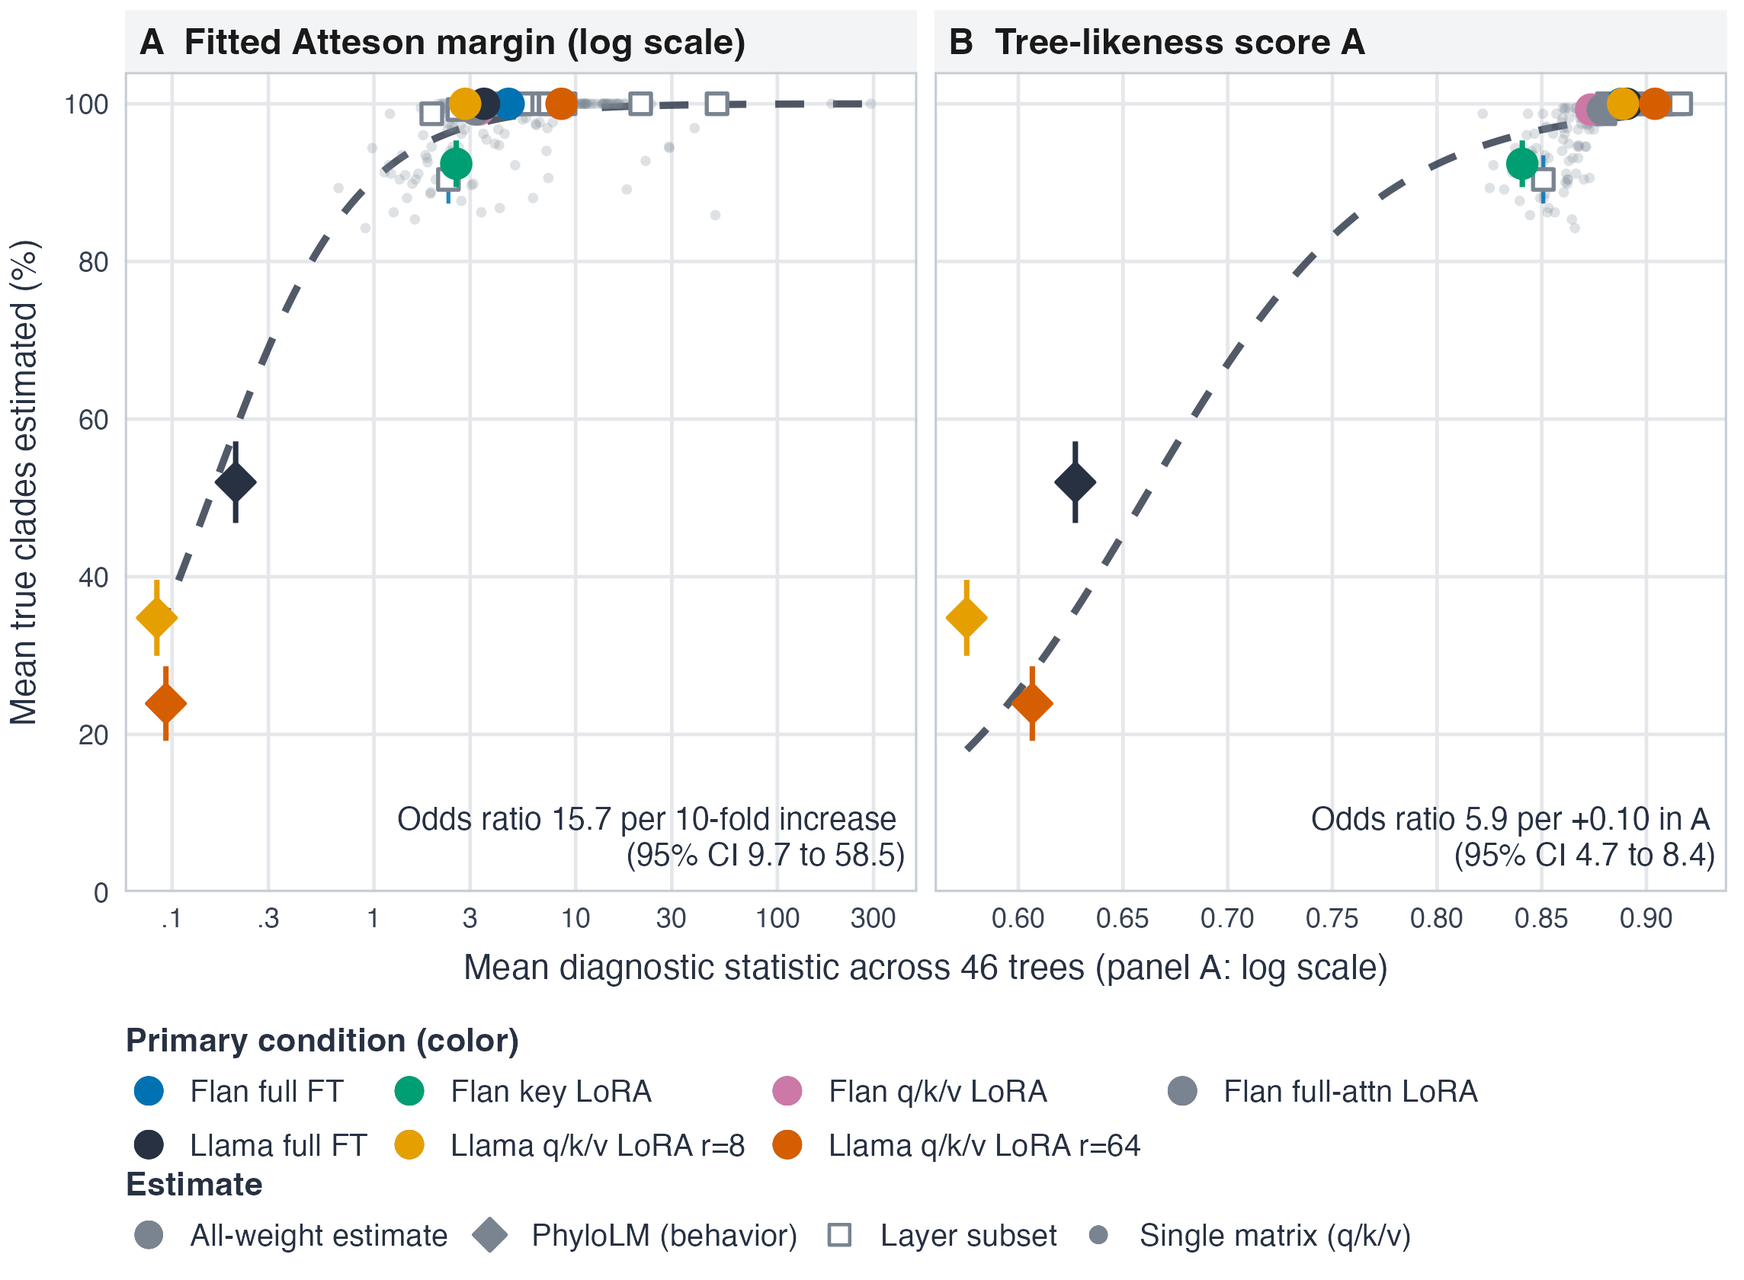
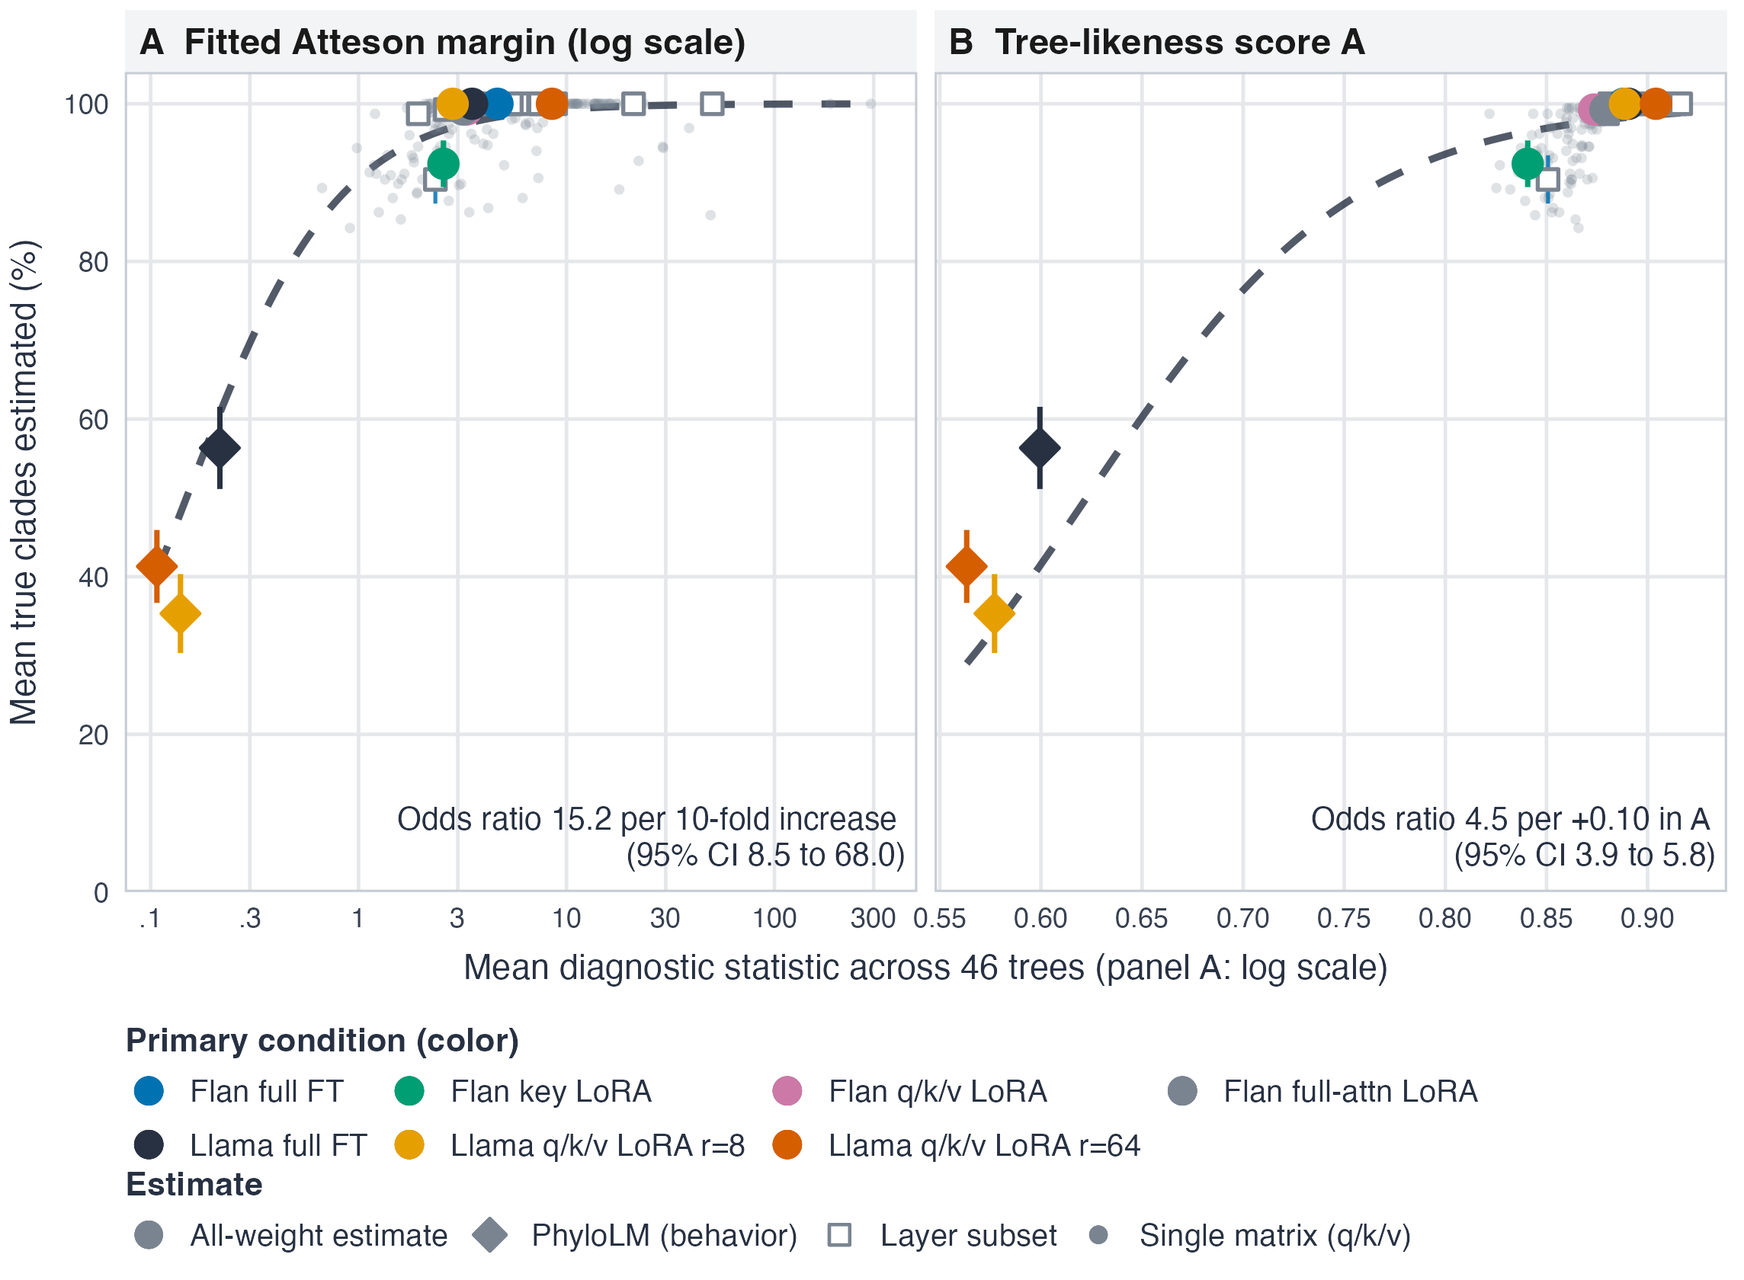
Update PhyloLM numbers to the fixed-2,000-step checkpoints
The controlled PhyloLM comparison had run on an earlier (July) training of
the Llama trees. It was rerun on 2026-09-24 on the same fixed-2,000-step
checkpoints as the weight rows (same PhyloLM code, configuration, and seeds;
Wright jobs 205941-206020). Numbers only; no wording changes.

- PhyloLM clade estimation: r8 35% (5), r64 41% (5), full FT 56% (5)
  (was 35 / 24 / 52); range 35--56% in the abstract, S2, Results, and the
  weight-vs-behavior paragraph.
- RF table PhyloLM columns: RF 5.52 / 5.09 / 4.26, FN 1.74 / 1.52 / 1.11.
- PhyloLM A = 0.56--0.60 (was 0.58--0.63); m~ < 0.25 unchanged.
- Figure 2 rebuilt; odds ratio per +0.10 in A 4.5 (95% CI 3.9--5.8), was
  5.9 (4.7--8.4); per tenfold m~ 15.2 (8.5--68.0), was 15.7 (9.7--58.5).
  The weights-only tree-level check (5.7, 4.0--9.3) is unchanged.

diff --git a/iclr_draft_v6.tex b/iclr_draft_v6.tex
@@ -78,7 +78,7 @@
 
 % -----------------------------------------------------------------------
 \begin{abstract}
-Over a million deep learning models are hosted online, and most are fine-tuned descendants of a few ancestors. Their lineage is rarely fully documented, even though provenance, auditing, and safe deployment depend on it. We hypothesize that fine-tuning acts as an evolutionary process, so that weights have traits inherited from their ancestors. We show that a model \textit{phylogeny} (evolutionary tree) can be estimated from the weights of the observed leaf models alone, with all ancestors latent. On controlled LLM fine-tuning trees whose true structure is known, our estimates contain every true clade (a group of models descended from one ancestor) in 85--100\% of trees, compared with 3\% for a random tree. Treating each weight layer as a gene-like estimator of lineage, we find that a single weight matrix, such as one attention key matrix (0.1--0.2\% of the weights), estimates the phylogeny as well as all the weights combined. Moreover, estimation accuracy is positively associated with two measures from phylogenetics, the Atteson margin and a tree-likeness score based on four-point additivity. The latter needs no true tree. We also report two secondary findings. Models closer in weight space often behave more similarly on held-out tasks, and weight-based estimation matches behavior-based estimation (PhyloLM) on two documented real families while outperforming it on the controlled Llama trees (100\% of clades versus 24--52\%).
+Over a million deep learning models are hosted online, and most are fine-tuned descendants of a few ancestors. Their lineage is rarely fully documented, even though provenance, auditing, and safe deployment depend on it. We hypothesize that fine-tuning acts as an evolutionary process, so that weights have traits inherited from their ancestors. We show that a model \textit{phylogeny} (evolutionary tree) can be estimated from the weights of the observed leaf models alone, with all ancestors latent. On controlled LLM fine-tuning trees whose true structure is known, our estimates contain every true clade (a group of models descended from one ancestor) in 85--100\% of trees, compared with 3\% for a random tree. Treating each weight layer as a gene-like estimator of lineage, we find that a single weight matrix, such as one attention key matrix (0.1--0.2\% of the weights), estimates the phylogeny as well as all the weights combined. Moreover, estimation accuracy is positively associated with two measures from phylogenetics, the Atteson margin and a tree-likeness score based on four-point additivity. The latter needs no true tree. We also report two secondary findings. Models closer in weight space often behave more similarly on held-out tasks, and weight-based estimation matches behavior-based estimation (PhyloLM) on two documented real families while outperforming it on the controlled Llama trees (100\% of clades versus 35--56\%).
 
 \end{abstract}
 
@@ -120,7 +120,7 @@ Our central finding is that weights have traits. In particular, fine-tuned model
 \begin{itemize}[leftmargin=1.3em,itemsep=1pt,topsep=2pt,parsep=0pt]
   \item \textbf{P1 (primary). Phylogeny estimation from leaf-model weights with latent ancestors.} We estimate a model phylogeny from the weights of the observed leaf models alone and treat every ancestor as latent. Each weight layer acts as a gene-like estimator that yields its own tree, and an average of these trees gives the combined estimate. To evaluate the method, we introduce controlled LLM fine-tuning trees with known true trees for Flan-T5-base and Llama-3.2-1B under full fine-tuning and LoRA. Weights correctly estimate every true clade in 85--100\% of trees and 92--100\% of clades overall, compared with 3\% and 9\% for a random tree. Moreover, a single weight matrix, such as one attention key matrix (0.1--0.2\% of the weights), estimates phylogenies just as well as all the weights combined. We also use two classical phylogenetic diagnostics, a tree-likeness score based on four-point additivity and a fitted Atteson margin. The former needs no true tree, and in our experiments higher scores were associated with more accurate estimates. On two documented Hugging Face LLM families, our weight-based method correctly estimates every documented clade.
   \item \textbf{S1 (secondary). Similar weights signal similar behavior.} Models that are closer in weight space produce more similar outputs on \textit{held-out} tasks involving truthfulness, reasoning, knowledge, and common sense. Unlike tree estimation, this analysis uses every trained model, including internal checkpoints, and pools within-tree correlations across trees with a random-effects meta-analysis. For Llama, the pooled correlation is significant and negative on every held-out task ($|r_{\mathrm{DL}}|=0.17$--$0.23$), whereas Flan's results are negative and significant in four of six tasks.
-  \item \textbf{S2 (secondary). Weight-based estimation can outperform behavior-based estimation.} On the controlled Llama trees, weights correctly estimate 100\% of clades, versus 24--52\% for the behavior-only PhyloLM~\citep{yax2025phylolm}. The tree-likeness score from P1 signals this gap. We show that PhyloLM's behavioral distances are much less tree-like, and across our estimators the odds of correctly estimating a clade grow 5.9-fold per 0.10 increase in the score. On the same two documented families, the behavior-based method estimates all true clades, indicating that behavior-only estimation can perform just as well as weight-based estimation in some scenarios.
+  \item \textbf{S2 (secondary). Weight-based estimation can outperform behavior-based estimation.} On the controlled Llama trees, weights correctly estimate 100\% of clades, versus 35--56\% for the behavior-only PhyloLM~\citep{yax2025phylolm}. The tree-likeness score from P1 signals this gap. We show that PhyloLM's behavioral distances are much less tree-like, and across our estimators the odds of correctly estimating a clade grow 4.5-fold per 0.10 increase in the score. On the same two documented families, the behavior-based method estimates all true clades, indicating that behavior-only estimation can perform just as well as weight-based estimation in some scenarios.
 \end{itemize}
 % Submission TODO: add the anonymous code-and-artifact URL here once the blind snapshot exists.
 
@@ -315,8 +315,8 @@ Variant & \shortstack{Rank-bis.\\(SE)} & \shortstack{$r_{\mathrm{branch}}$\\(SE)
 \midrule
 \multicolumn{7}{l}{\textbf{Decoder-only: Llama-3.2-1B} ($d=2048$)} \\
 \quad LoRA: q/k/v ($r{=}8$)              & 0.63 (0.08) & $-0.64$ (0.07) & \textbf{100\%}$^\star$ & 35\% (5\%) & \textbf{100\%}$^\star$ & 0.00 (0.00) \\
-\quad LoRA: q/k/v ($r{=}64$)             & 0.65 (0.08) & $-0.67$ (0.07) & \textbf{100\%}$^\star$ & 24\% (5\%) & \textbf{100\%}$^\star$ & 0.00 (0.00) \\
-\quad Full fine-tuning                   & 0.64 (0.08) & $-0.66$ (0.07) & \textbf{100\%}$^\star$ & 52\% (5\%) & \textbf{100\%}$^\star$ & 0.00 (0.00) \\
+\quad LoRA: q/k/v ($r{=}64$)             & 0.65 (0.08) & $-0.67$ (0.07) & \textbf{100\%}$^\star$ & 41\% (5\%) & \textbf{100\%}$^\star$ & 0.00 (0.00) \\
+\quad Full fine-tuning                   & 0.64 (0.08) & $-0.66$ (0.07) & \textbf{100\%}$^\star$ & 56\% (5\%) & \textbf{100\%}$^\star$ & 0.00 (0.00) \\
 \bottomrule
 \end{tabular}
 }
@@ -327,11 +327,11 @@ Variant & \shortstack{Rank-bis.\\(SE)} & \shortstack{$r_{\mathrm{branch}}$\\(SE)
 
 \paragraph{Phylogeny estimation.}
 \label{sec:results:weighttree}
-Beyond shared lineage, the BHV Fr\'echet means estimate the full phylogeny (Table~\ref{tab:variants}). In the controlled experiments, clade estimation for our method ranges from 92--100\% and full estimation from 85--100\%. The LoRA variants correctly estimate 92--99\% of clades for Flan and 100\% for Llama. Full fine-tuning estimates 100\% of clades for both. On the same 46 trees, weights correctly estimate 100\% of clades versus PhyloLM's 35\% under rank-8 LoRA, 100\% versus 24\% at rank 64, and 100\% versus 52\% under full fine-tuning.
+Beyond shared lineage, the BHV Fr\'echet means estimate the full phylogeny (Table~\ref{tab:variants}). In the controlled experiments, clade estimation for our method ranges from 92--100\% and full estimation from 85--100\%. The LoRA variants correctly estimate 92--99\% of clades for Flan and 100\% for Llama. Full fine-tuning estimates 100\% of clades for both. On the same 46 trees, weights correctly estimate 100\% of clades versus PhyloLM's 35\% under rank-8 LoRA, 100\% versus 41\% at rank 64, and 100\% versus 56\% under full fine-tuning.
 
 Treating each layer as a gene-like estimator reveals that a single weight matrix can estimate the phylogeny as well as the all-weight estimate under full fine-tuning. On the same 46 trees, each of the 12 Flan encoder self-attention key matrices on its own (0.24\% of the weights) correctly estimates 100\% of clades with 100\% full estimation, as do 10 of the 16 Llama key matrices (0.085\% each), matching the all-weight estimate (App.~\ref{app:layertrace}; Table~\ref{tab:layer_subsets} reports the corresponding layer subsets). In Flan, every individual encoder attention and feed-forward matrix does the same. The signal also survives low-rank training: q/k/v LoRA adapters that train only 0.54\% of Flan's parameters give 99\% clade estimation and 98\% full estimation, and rank-8 q/k/v LoRA, which trains 0.10\% of Llama's parameters, gives 100\% and 100\% (Table~\ref{tab:variants}). The per-layer profile in App.~\ref{app:layertrace} shows which layers carry the strongest signal, and this depends on the architecture.
 
-Finally, we ask whether the tree likeness scores of \S\ref{sec:framework:theory} signal when estimation succeeds. Figure~\ref{fig:coherence_recovery} plots clade estimation against the fitted Atteson margin $\widetilde m$ and the tree-likeness score $A$ for 228 weight-based estimators on the same 46 trees (the seven all-weight conditions, 17 attention-layer subsets, and 204 single query, key, or value matrices) and the three PhyloLM conditions. In our experiments, both scores signal success. Clade estimation rises steeply as the distances become more tree-like and then levels off near 100\%. We fit a fractional-logit model to clade estimation $p_c$, the fraction of true clades correctly estimated, with $\operatorname{logit}(p_c)=\beta_0+\beta_1x$. The odds of correctly estimating a clade grow 5.9-fold per $0.10$ increase in $A$ (95\% CI 4.7--8.4, paired bootstrap over trees) and 15.7-fold per tenfold increase in $\widetilde m$ (95\% CI 9.7--58.5). Every weight-based estimator in Figure~\ref{fig:coherence_recovery} has $A\ge0.82$ and correctly estimates at least 84\% of clades, and the all-weight conditions and layer subsets, all of which have $\widetilde m>1$, estimate at least 90\%. In contrast, PhyloLM's behavioral distances have $A=0.58$--$0.63$ and $\widetilde m<0.25$, and PhyloLM correctly estimates 24--52\% of clades. Much of the range in Figure~\ref{fig:coherence_recovery} comes from this gap between weight- and behavior-based distances, but the association also holds among weight-based estimators alone (tree-level fit, odds ratio 5.7 per $0.10$, 95\% CI 4.0--9.3). Because $A$ needs no labels, it offers an empirical guide to how far to trust an estimated phylogeny, although a high score shows tree-like distances rather than a correct history.
+Finally, we ask whether the tree likeness scores of \S\ref{sec:framework:theory} signal when estimation succeeds. Figure~\ref{fig:coherence_recovery} plots clade estimation against the fitted Atteson margin $\widetilde m$ and the tree-likeness score $A$ for 228 weight-based estimators on the same 46 trees (the seven all-weight conditions, 17 attention-layer subsets, and 204 single query, key, or value matrices) and the three PhyloLM conditions. In our experiments, both scores signal success. Clade estimation rises steeply as the distances become more tree-like and then levels off near 100\%. We fit a fractional-logit model to clade estimation $p_c$, the fraction of true clades correctly estimated, with $\operatorname{logit}(p_c)=\beta_0+\beta_1x$. The odds of correctly estimating a clade grow 4.5-fold per $0.10$ increase in $A$ (95\% CI 3.9--5.8, paired bootstrap over trees) and 15.2-fold per tenfold increase in $\widetilde m$ (95\% CI 8.5--68.0). Every weight-based estimator in Figure~\ref{fig:coherence_recovery} has $A\ge0.82$ and correctly estimates at least 84\% of clades, and the all-weight conditions and layer subsets, all of which have $\widetilde m>1$, estimate at least 90\%. In contrast, PhyloLM's behavioral distances have $A=0.56$--$0.60$ and $\widetilde m<0.25$, and PhyloLM correctly estimates 35--56\% of clades. Much of the range in Figure~\ref{fig:coherence_recovery} comes from this gap between weight- and behavior-based distances, but the association also holds among weight-based estimators alone (tree-level fit, odds ratio 5.7 per $0.10$, 95\% CI 4.0--9.3). Because $A$ needs no labels, it offers an empirical guide to how far to trust an estimated phylogeny, although a high score shows tree-like distances rather than a correct history.
 
 \begin{figure}[t]
   \begin{center}
@@ -387,7 +387,7 @@ Flan-T5-base & \shortstack{$-0.10$\\{\scriptsize$[-.16,-.04]$}} & \shortstack{$+
 
 When weights are unavailable or architectures differ, lineage must be inferred from behavior alone. Table~\ref{tab:variants} already compares our estimates with the behavior-only PhyloLM~\citep{yax2025phylolm} on the controlled trees. We also score both approaches against two documented Hugging Face families, Mistral-7B and Llama-2-7B. Our weight-based estimates contain every documented clade, and so do PhyloLM's, although the weight-based distances are more tree-like ($A=0.86$ vs.\ $0.68$ for Mistral and $0.82$ vs.\ $0.64$ for Llama-2; App.~\ref{app:organic-additional}).
 
-The Mistral forks are large RLHF or direct preference optimization (DPO) updates that shift behavior substantially. Our controlled fine-tunings are smaller, and there PhyloLM correctly estimates only 24--52\% of clades versus 100\% for weights (Table~\ref{tab:variants}). Behavior thus carries some, but not all, of the lineage signal in the weights, and weight-based estimation does not depend on a choice of prompts. Overall, weight-based estimation matches behavior-based estimation on these real families and substantially outperforms it in the controlled experiments.
+The Mistral forks are large RLHF or direct preference optimization (DPO) updates that shift behavior substantially. Our controlled fine-tunings are smaller, and there PhyloLM correctly estimates only 35--56\% of clades versus 100\% for weights (Table~\ref{tab:variants}). Behavior thus carries some, but not all, of the lineage signal in the weights, and weight-based estimation does not depend on a choice of prompts. Overall, weight-based estimation matches behavior-based estimation on these real families and substantially outperforms it in the controlled experiments.
 
 % -----------------------------------------------------------------------
 \section{Discussion}
@@ -397,7 +397,7 @@ The Mistral forks are large RLHF or direct preference optimization (DPO) updates
 We show that model family phylogeny can be estimated from weights alone, and that a single weight matrix, such as one attention key matrix (0.1--0.2\% of the weights), estimates training trees as well as all trained layers together. We also find that clade estimation works across encoder--decoder and decoder-only models and survives LoRA training at low rank ($r=8$). Across our controlled conditions, full estimation ($\mathrm{FN}=0$) ranges from 85--100\%. The label-free tree-likeness score $A$ is associated with higher clade estimation in our experiments. In addition to estimating phylogeny and shared lineage from weights, we show that models closer in weight space tend to have more similar outputs on held-out tasks. The effect depends on the task and ranges from $r_{\mathrm{DL}}=-0.23$ to $-0.17$ across the held-out Llama tasks. Finally, weight- and behavior-based estimation both correctly estimate the documented Mistral-7B and Llama-2-7B families, while weight-based estimation is substantially stronger in all three controlled Llama conditions and requires no prompts.
 
 
-\paragraph{Implications.} Our results suggest three uses beyond estimating controlled trees. First, weight-based phylogenies can fingerprint models and help chart the largely undocumented atlas of fine-tuned models on public hubs \citep{horwitz2025chartatlasworldsmodels}, at least within a shared architecture. Second, the tree-likeness score offers a label-free measure of empirical confidence. In our experiments, clade estimation rose sharply with $A$ (odds ratio 5.9 per $0.10$), so a practitioner without a true tree can use $A$ as a heuristicto how far to trust an estimated lineage, which brings a classical idea from phylogenetics to model auditing. Third, a tiny, architecture-dependent fraction of the weights suffices. A single weight matrix, such as one attention key matrix (0.1--0.2\% of the weights), matches the all-weight estimate, which makes lineage estimates affordable even for large models.
+\paragraph{Implications.} Our results suggest three uses beyond estimating controlled trees. First, weight-based phylogenies can fingerprint models and help chart the largely undocumented atlas of fine-tuned models on public hubs \citep{horwitz2025chartatlasworldsmodels}, at least within a shared architecture. Second, the tree-likeness score offers a label-free measure of empirical confidence. In our experiments, clade estimation rose sharply with $A$ (odds ratio 4.5 per $0.10$), so a practitioner without a true tree can use $A$ as a heuristicto how far to trust an estimated lineage, which brings a classical idea from phylogenetics to model auditing. Third, a tiny, architecture-dependent fraction of the weights suffices. A single weight matrix, such as one attention key matrix (0.1--0.2\% of the weights), matches the all-weight estimate, which makes lineage estimates affordable even for large models.
 
 \paragraph{Limitations.} One limitation is that our methods for phylogeny estimation using weights currently only work when the underlying architecture is identical, i.e., the weight space is the same.  This means that Llama cannot directly be compared to Mistral, for example. Moreover, unlike \citet{horwitz2025mother}, our method treats every observed model as a leaf. Another issue is that our controlled training tree generation results from a fairly simple process that may not result in the most realistic training trees.  We attempt to mitigate that with two documented real-world families. Future directions include better relating models across different architectures such as with CKA and further exploring the mechanism by which lineage is inherited. 
 
@@ -519,9 +519,9 @@ Flan & LoRA: key only                   & 2.39 (0.25) & 0.17 (0.06) & n/a & n/a 
      & LoRA: q/k/v/o + FFN$^\dagger$    & 2.26 (0.21) & 0.11 (0.05) & n/a & n/a \\
      & Full fine-tuning                 & 2.04 (0.19) & 0.00 (0.00) & n/a & n/a \\
 \midrule
-Llama & LoRA: q/k/v ($r{=}8$)          & 2.04 (0.19) & 0.00 (0.00) & 5.39 (0.35) & 1.67 (0.16) \\
-      & LoRA: q/k/v ($r{=}64$)         & 2.04 (0.19) & 0.00 (0.00) & 6.04 (0.39) & 2.00 (0.16) \\
-      & Full fine-tuning                & 1.83 (0.17) & 0.00 (0.00) & 4.48 (0.36) & 1.22 (0.15) \\
+Llama & LoRA: q/k/v ($r{=}8$)          & 2.04 (0.19) & 0.00 (0.00) & 5.52 (0.37) & 1.74 (0.16) \\
+      & LoRA: q/k/v ($r{=}64$)         & 2.04 (0.19) & 0.00 (0.00) & 5.09 (0.34) & 1.52 (0.14) \\
+      & Full fine-tuning                & 1.83 (0.17) & 0.00 (0.00) & 4.26 (0.36) & 1.11 (0.14) \\
 \bottomrule
 \end{tabular}
 \end{table}
